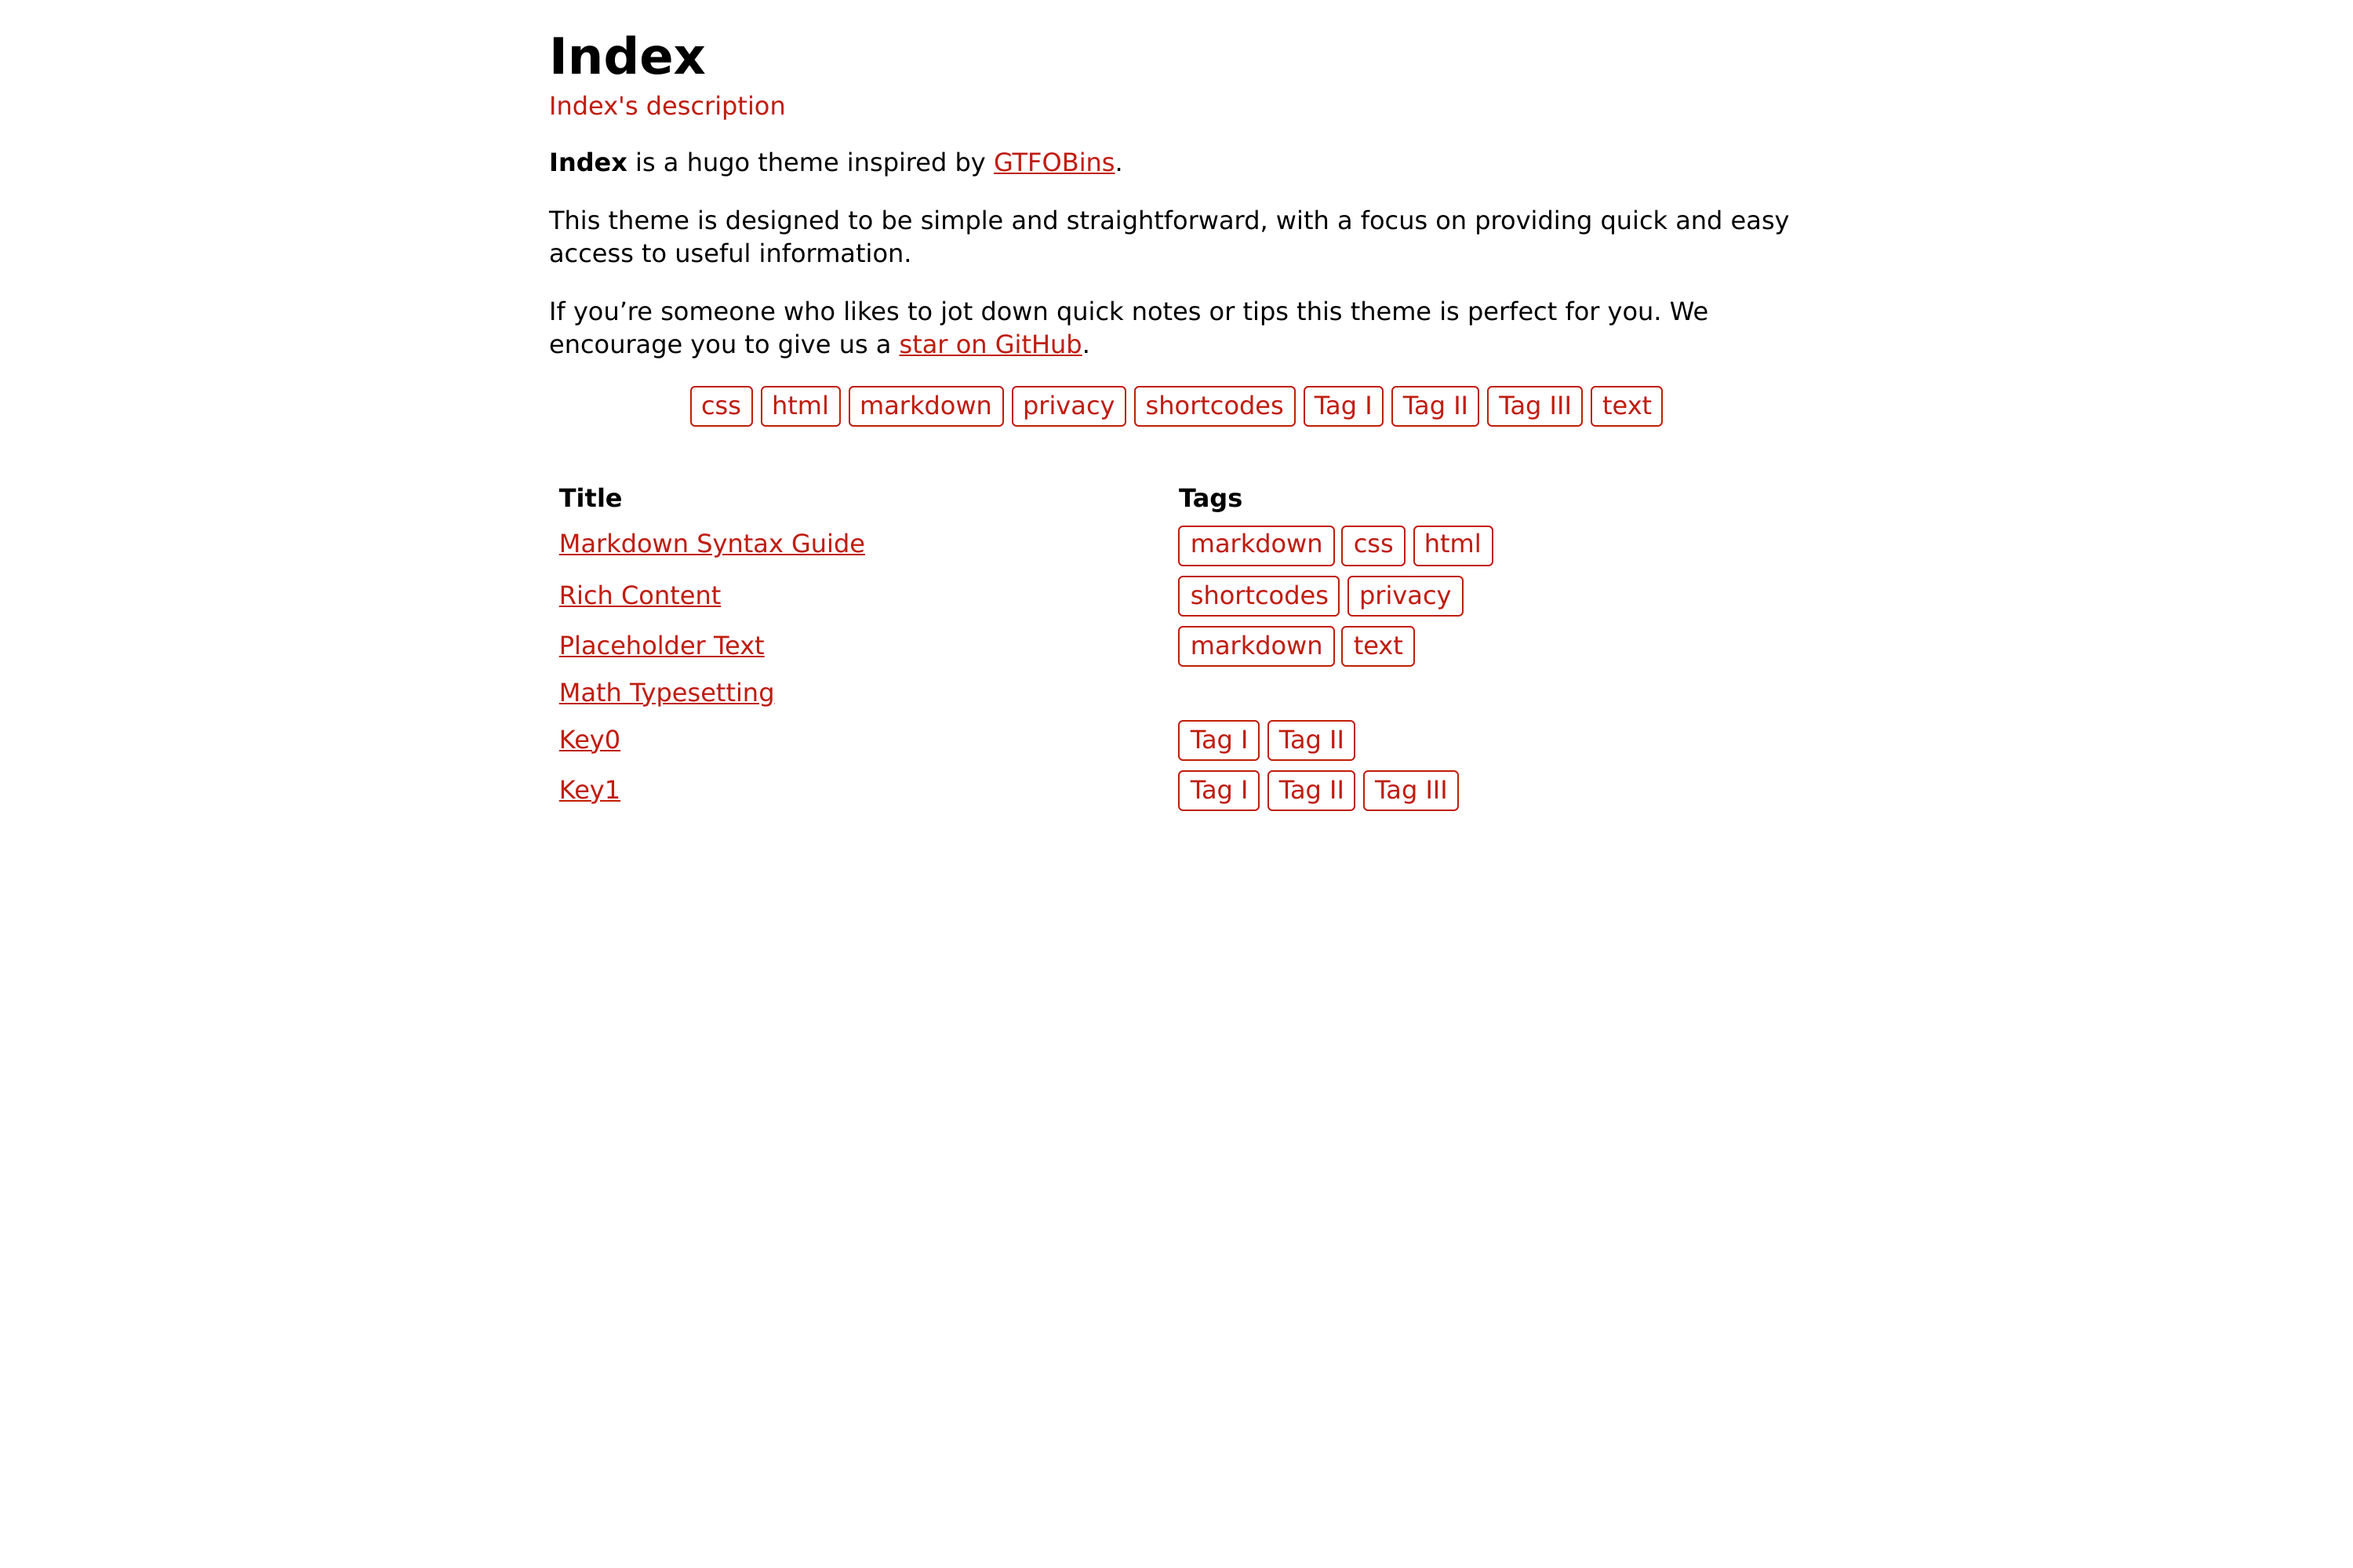
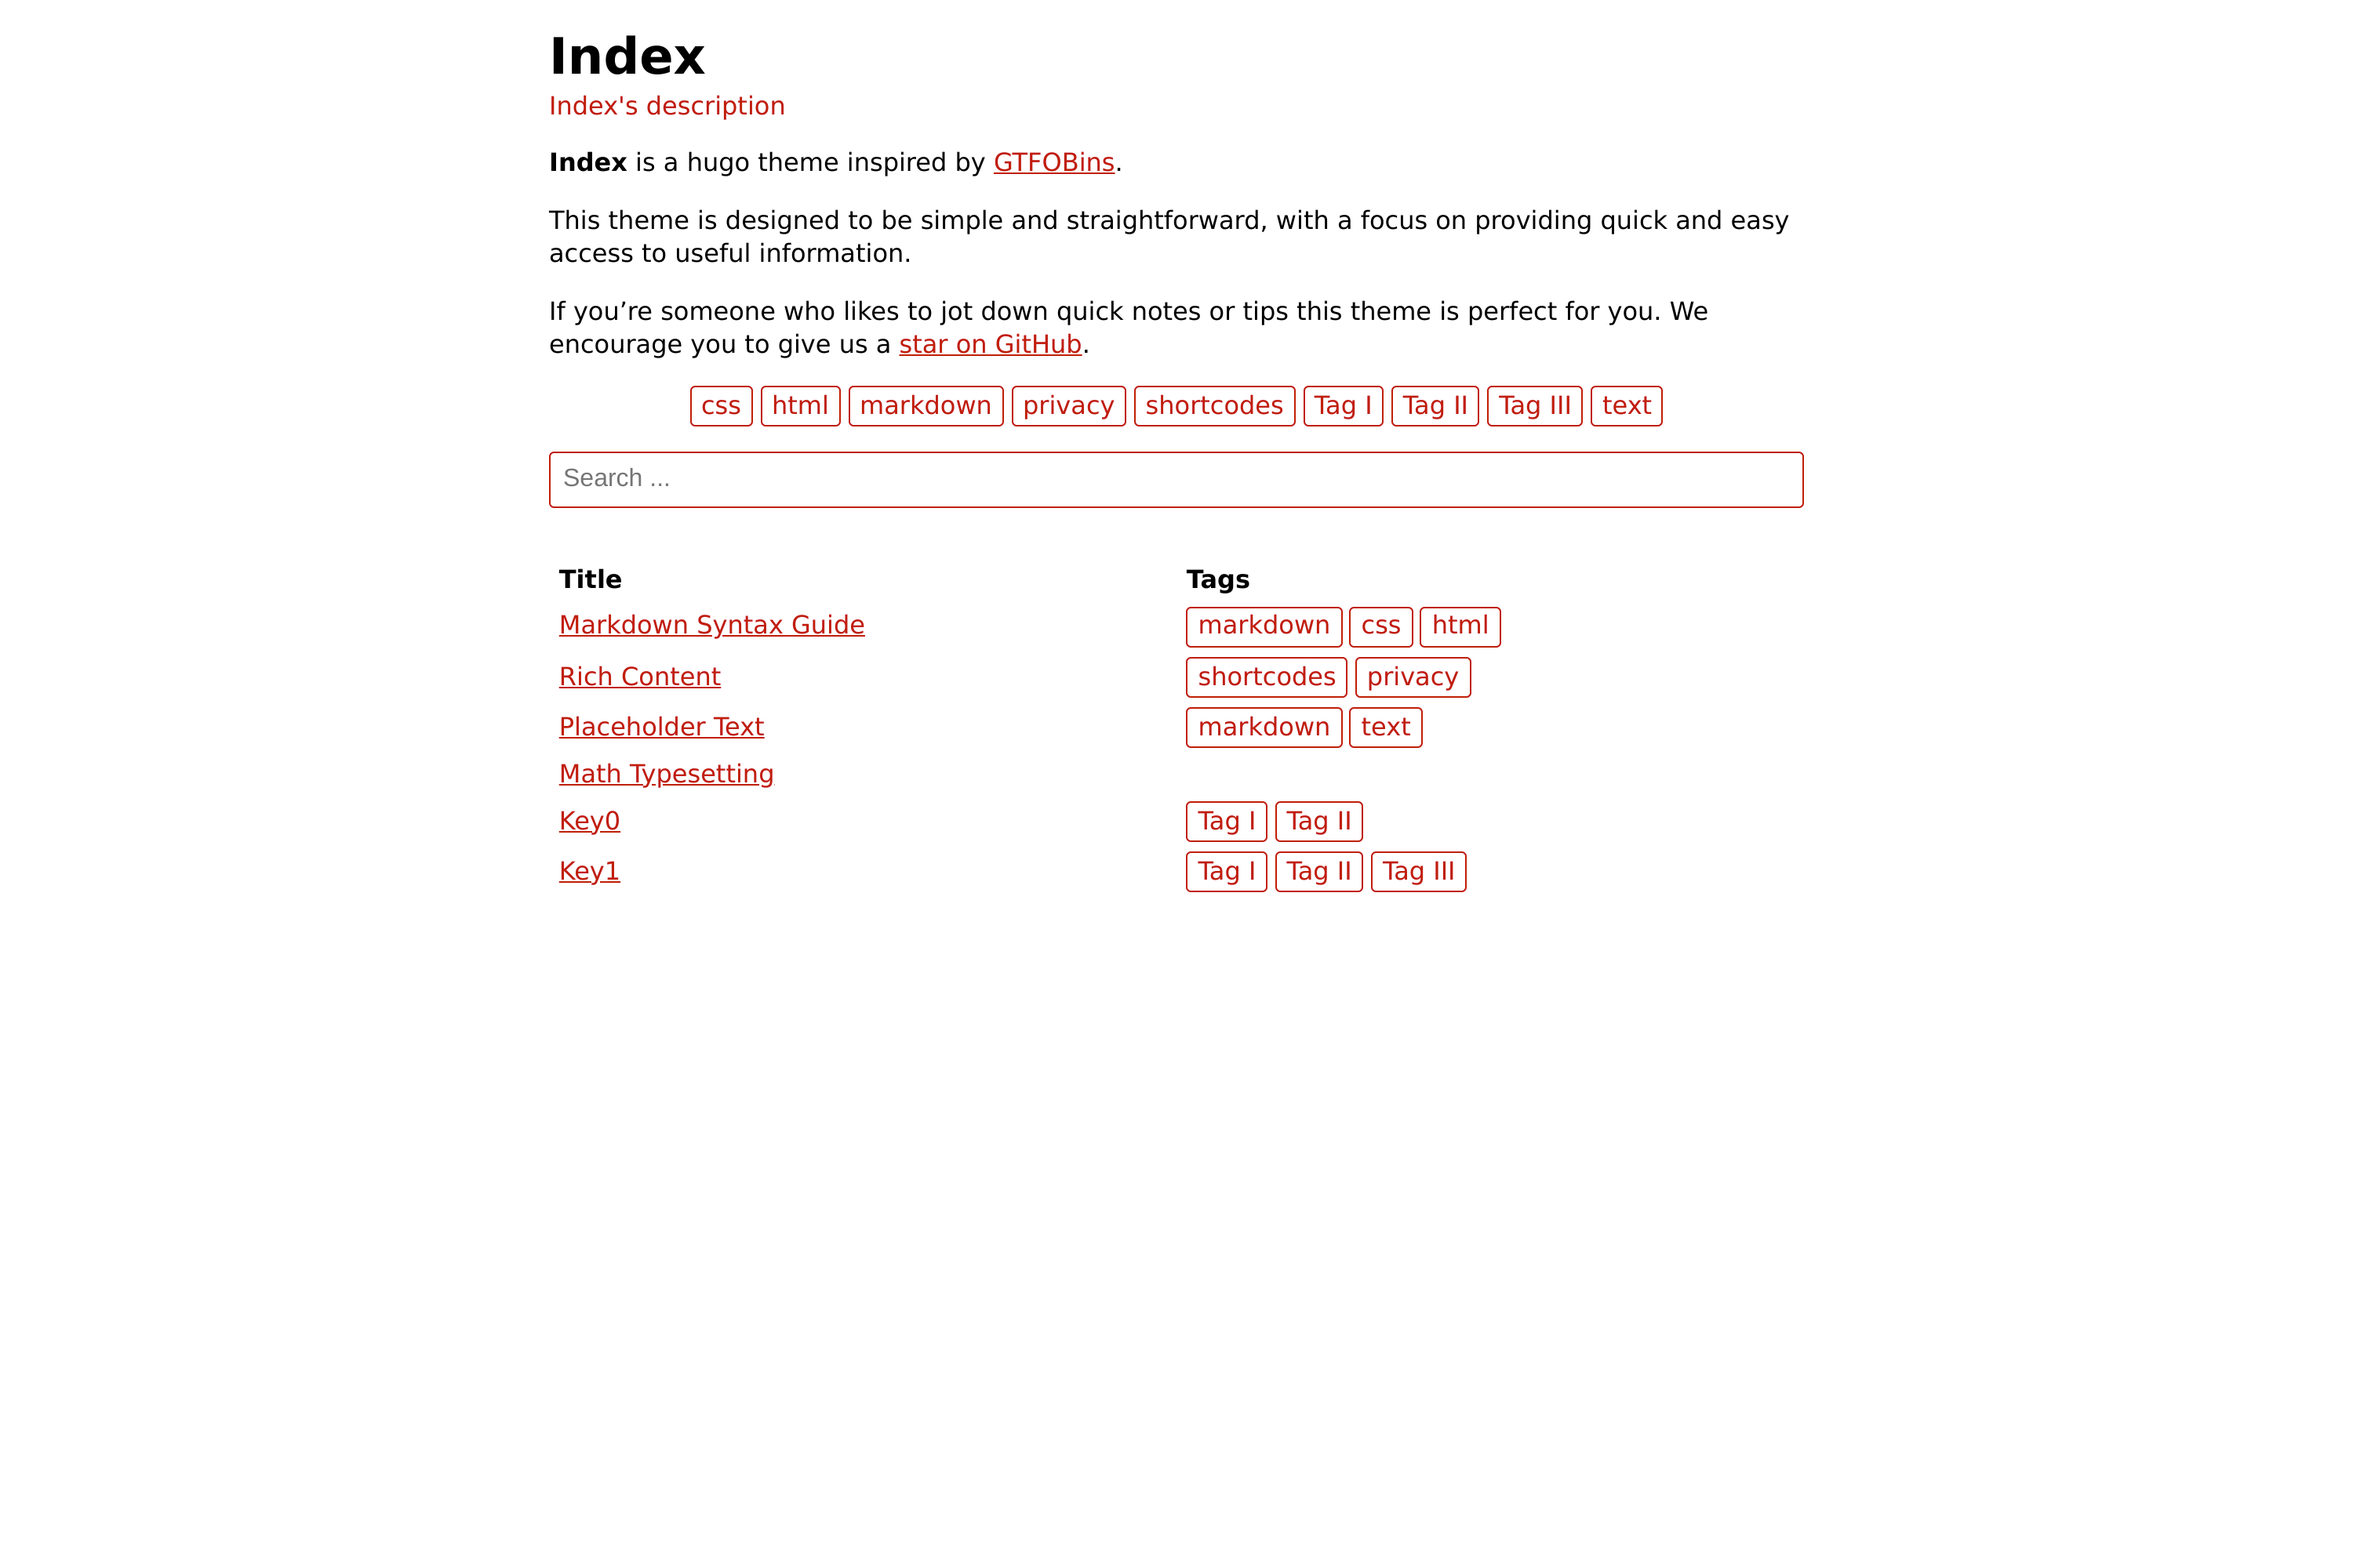
Update images

Changed region(s): [[0.496, 0.3102, 0.651, 0.5893], [0.217, 0.2791, 0.372, 0.5273]]

diff --git a/README.md b/README.md
@@ -1,5 +1,5 @@
 <h1 align=center>Hugo Index | <a href="https://adityatelange.github.io/hugo-index/">Demo</a></h1>
 
 <p align="center">
-<kbd><img src="https://user-images.githubusercontent.com/21258296/232846301-bc79e869-e05d-47af-9a5f-957e8d3f416c.png" alt="Mockup image" title="Mockup" credits="https://screely.com/"/></kbd>
+<kbd><img src="https://user-images.githubusercontent.com/21258296/233713549-07016736-3ca1-46a3-895f-9c08b6cd9145.png" alt="Mockup image" title="Mockup" credits="https://screely.com/"/></kbd>
 </p>
